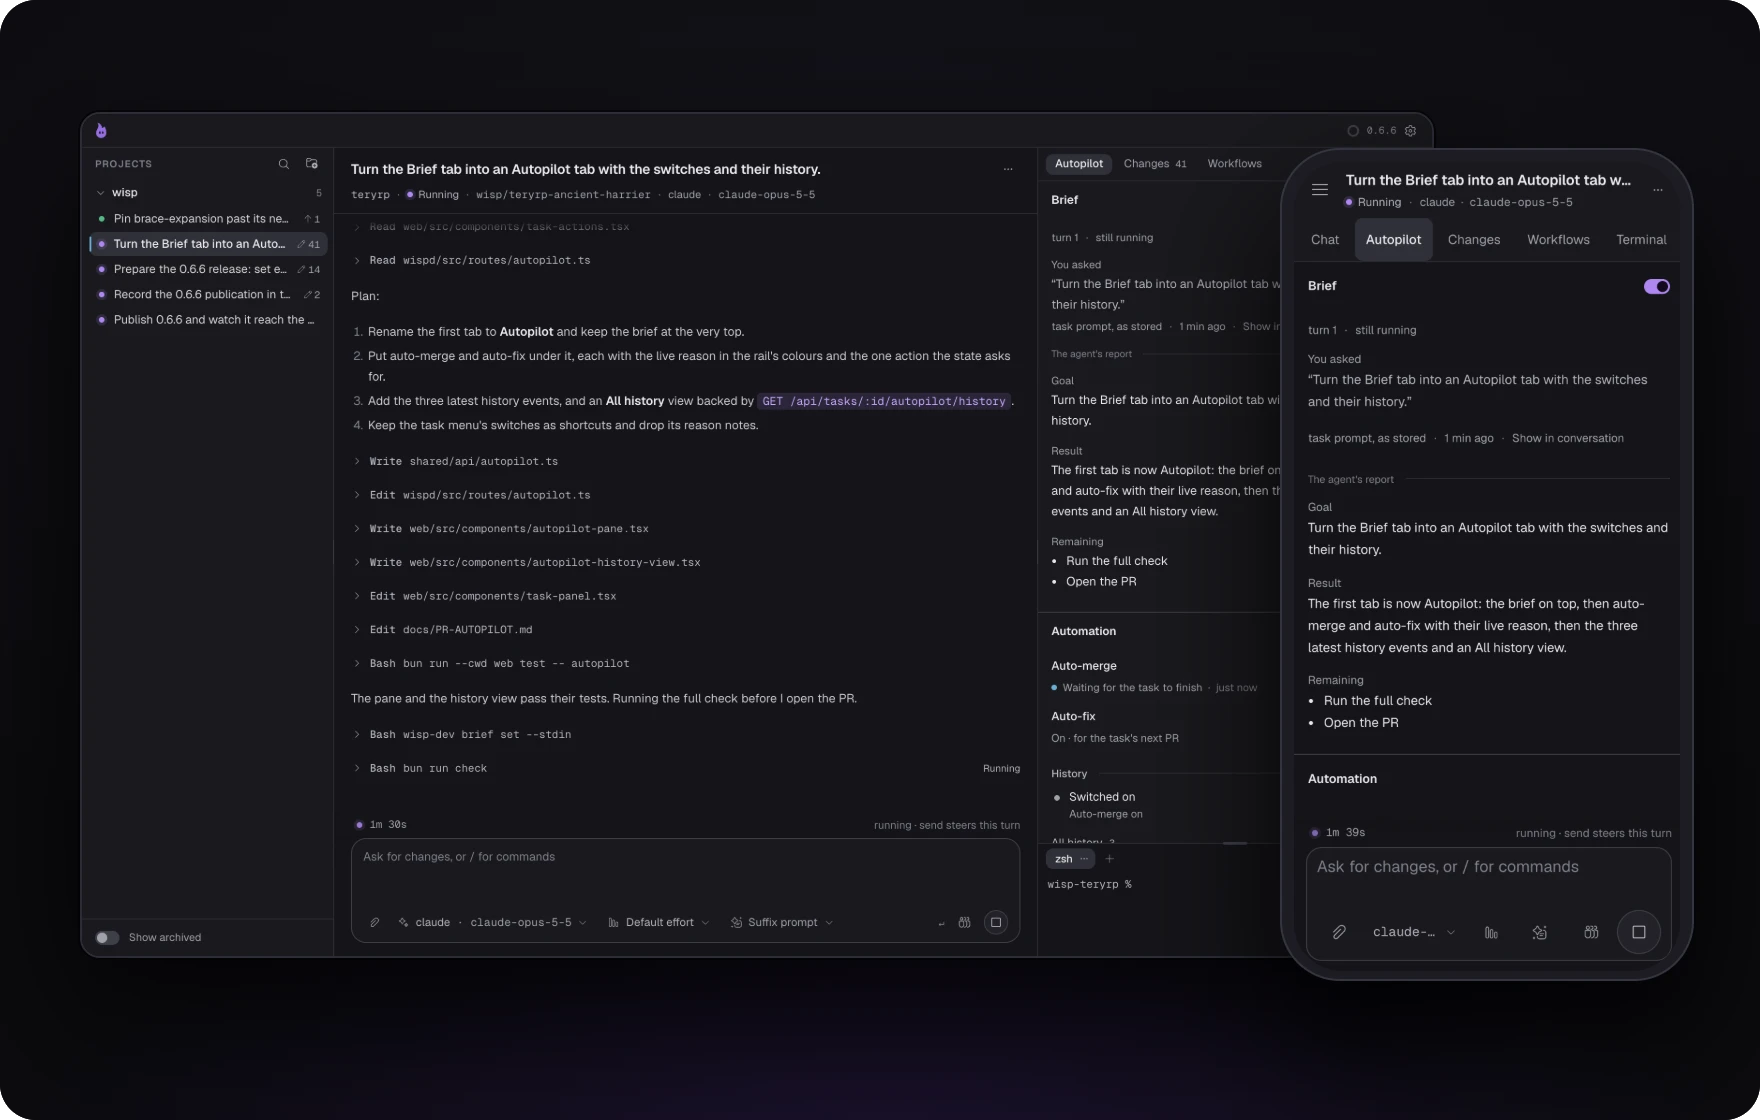
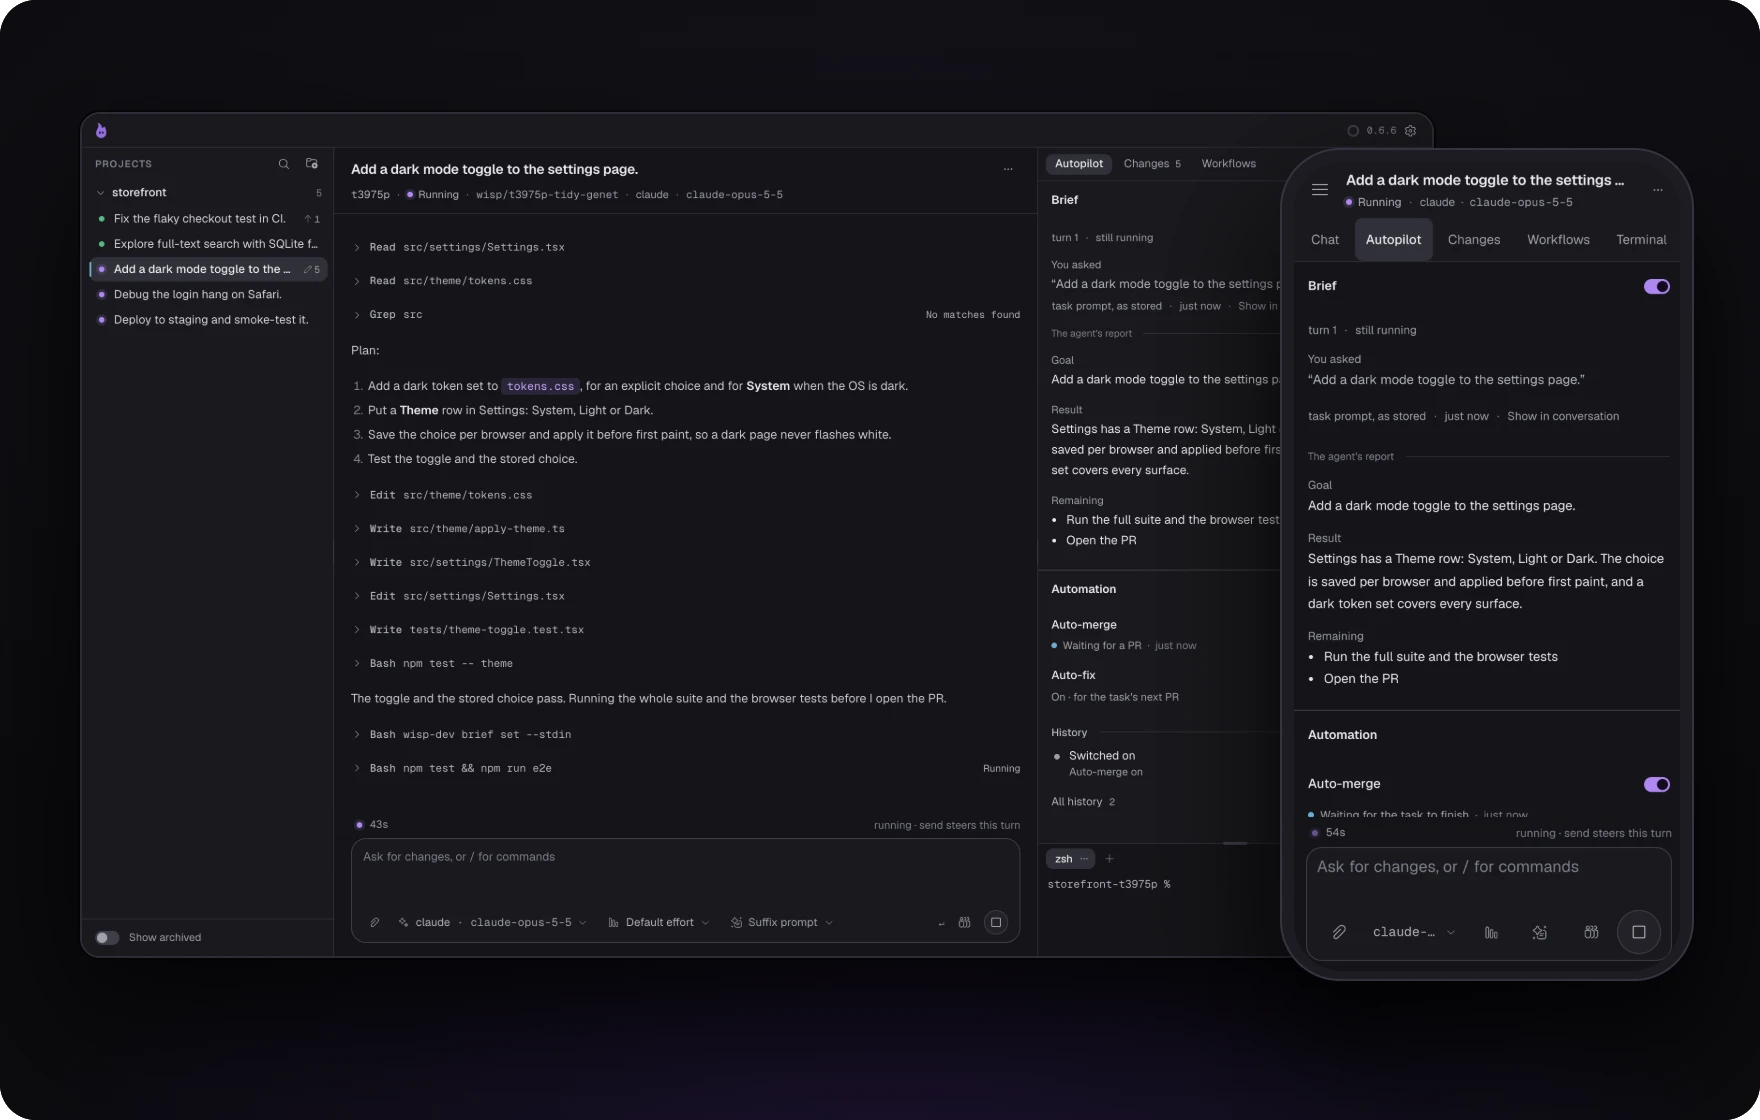
docs(readme): rewrite the README around what Wisp follows through on (#361)
* docs(readme): rewrite the README around what Wisp follows through on

The front page described the part every tool shares (parallel agents,
worktrees) and spent its second half on platform and signing details. It now
leads with the promise and the loop that is Wisp's own: red CI and review
comments go back to the agent, the PR merges when it is ready, heartbeats and
scheduled steers keep watch, and a brief waits at the end. In order: the
header, a three-line explanation, a slot for the film, the screenshot, what
Wisp does, install, a CLI start, the safety note, and links.

The install commands, the pinned Linux installer URL, the five harness names
and the glibc floor are unchanged, so the release tooling and its tests still
find them. The signing history moved out; the install guides keep it.

* docs(readme): the film, in its slot

* docs(readme): retake the screenshot on everyday tasks

The screenshot showed Wisp's own 0.6.6 release chores. It is retaken on
the demo world with a small web app and the film's five tasks: a dark-mode
feature (the open task, mid-run with its plan, brief, and auto-merge and
auto-fix on), a Safari login debug, a full-text search exploration, a flaky
CI test and a staging deploy. Same layout, desktop and phone, 90 KB.

* docs(readme): the film, opening on the header

* docs(readme): open on the film, not the header

The header image and the film's first frame showed the same lockup one
[…]

diff --git a/README.md b/README.md
@@ -1,107 +1,110 @@
+https://github.com/user-attachments/assets/93c9376d-e671-44b8-9f34-82a747d929da
+
 <div align="center">
 
-<p><img src="brand/readme-header.png" alt="Wisp. Start the work. Wisp follows through." width="880" /></p>
+<p>Run your coding agents in parallel, each task in its own worktree.<br />
+Wisp follows every task through: red CI and review comments go back to the agent,<br />
+the PR merges when it's ready, and a brief is waiting for you when you're back.</p>
 
-<p>Run coding agents in parallel. Keep their work separate.<br />
-Self-hosted · No Wisp account · Desktop, browser, phone, and CLI</p>
-
-<p><img src="docs/assets/readme-hero.webp" width="880" alt="Wisp with five coding-agent tasks running on the wisp repository: the task list, one agent's conversation, and that task's brief and auto-merge and auto-fix switches, with the same brief open on a phone." /></p>
+<p>Self-hosted · No Wisp account · Works with Droid, Claude Code, Codex, Cursor, and OpenCode</p>
 
 </div>
 
-Working on several things with coding agents usually means juggling terminals,
-remembering which branch belongs to which task, and checking whether an agent
-is finished or waiting for you.
+<p align="center"><img src="docs/assets/readme-hero.webp" width="880" alt="Wisp with five coding-agent tasks on a web app: a feature, a debug, an exploration, a flaky CI test and a deploy. The dark-mode task's conversation, its brief, and its auto-merge and auto-fix switches, with the same brief open on a phone." /></p>
 
-Wisp gives each task its own Git worktree and branch, with one place to follow
-progress, review diffs, and send follow-up instructions. Keep using your
-existing **Droid, Claude Code, Codex, Cursor, or OpenCode** installation.
+## What Wisp does
 
-## Why Wisp
-
-- **Work in parallel without sharing a checkout.** Give one agent a bug fix
-  and another a feature. Their edits stay on separate task branches.
-- **Pick up where you left off.** Read the conversation, inspect changes, open
-  a terminal, or steer the next step. Tasks keep running when you close the UI.
-- **Use the interface that fits.** Work locally in Desktop or the browser,
-  script tasks from the CLI, and check in from your phone over a
-  [private connection](docs/REMOTE-ACCESS.md).
+- **Run agents side by side.** Start several tasks at once, each with the
+  agent you already use, signed in as you. Every task gets its own Git worktree
+  and branch, so their edits never collide.
+- **Follow every PR to the end.** With auto-fix on, Wisp sends failing CI,
+  merge conflicts and review comments back to the agent until the PR is green.
+  With auto-merge on, Wisp merges it once its checks pass and reviews allow.
+  Both are switches on the task. [How it works](docs/PR-AUTOPILOT.md)
+- **Keep watch while you're away.** A heartbeat wakes a task on a schedule
+  until its goal is met: "check staging until the smoke test passes." Each
+  wake-up is an agent turn. A scheduled steer sends your next instruction at
+  the time you pick.
+  [Workflows](docs/WORKFLOWS.md)
+- **Read a brief, not a transcript.** At the end of each turn the agent
+  reports what it did, what's left, and any decision it needs from you, with
+  the option it recommends. Answer in one line. [Briefs](skills/wisp/references/cli.md#task-briefs)
+- **See the whole picture.** Read the conversation, review the diff, open a
+  terminal in the worktree, and see the diagrams agents draw rendered right in
+  the chat.
+- **Check in from anywhere.** The desktop app on macOS posts a banner when a
+  task's PR needs you and when Wisp merges it. The same UI runs in any browser
+  and on your phone over a [private connection](docs/REMOTE-ACCESS.md), and the
+  `wisp` CLI scripts it all. Tasks keep running when you close the window.
+- **Yours, end to end.** Wisp runs on your Mac or your Linux server, with your
+  agents and your GitHub account. There is no Wisp account and no Wisp cloud.
 
 ## Install
 
-Bring Git, a repository, and at least one installed and authenticated coding
-agent. Wisp itself needs no Node or Bun runtime.
+You need Git, a repository, and at least one coding agent installed and signed
+in. Wisp itself needs no Node or Bun.
 
-### macOS, Apple Silicon
+**macOS, Apple Silicon**
 
 ```sh
 brew install Pepewitch/tap/wisp Pepewitch/tap/wisp-desktop
 open -a Wisp
 ```
 
-This installs both the CLI/daemon and Desktop. Name both: Homebrew trusts only
-the fully qualified names you install from a non-official tap, so installing
-the Cask alone stops on the Formula it depends on. In the app, finish Local
-setup, add a repository, and create a task. For CLI-only installation and
-troubleshooting, see the [macOS guide](docs/INSTALL-MACOS.md).
+The app walks you through setup: add a repository and start your first task.
+Name both packages; Homebrew only trusts fully qualified names from a
+third-party tap. More in the [macOS guide](docs/INSTALL-MACOS.md).
 
-### Linux, x86_64
+**Linux, x86_64**
 
 ```sh
 curl --proto '=https' --tlsv1.2 -fsSL \
   https://raw.githubusercontent.com/Pepewitch/wisp/v0.6.6/scripts/install.sh | sh
 ```
 
-The installer verifies the download, installs under your home directory, and
-starts a systemd user service when available. It does not use `sudo`.
-For inspecting the script first, running without systemd, or fixing PATH,
-see the [Linux guide](docs/INSTALL.md).
+The installer verifies the download, installs under your home directory
+without `sudo`, and starts a systemd user service when it can. More in the
+[Linux guide](docs/INSTALL.md).
 
-### Your first CLI task
-
-With the daemon running, substitute your repository path and agent:
+## Start from the CLI
 
 ```sh
 wisp project add /path/to/repo
-wisp doctor --harness droid
-wisp new /path/to/repo "Find a small bug, fix it, and run the tests." --harness droid
+wisp doctor --harness claude
+wisp new /path/to/repo "Fix the flaky retry test and open a PR." --harness claude --auto-fix
 wisp token
 ```
 
-Open the URL from `wisp token` and paste its token to follow the task in your
-browser. Keep that token private. `wisp help` lists the CLI commands.
+`wisp token` prints the address of the web UI and a token to sign in with.
+Keep the token private. `wisp help` lists every command.
 
 ## Before you run an agent
 
-**A worktree is not a sandbox.** Wisp runs agents as your OS user with their
-tool-approval bypass enabled. They can access files, credentials, and the
-network outside the task checkout. Use trusted repositories, review changes,
-and use a separate OS account or disposable VM for untrusted work.
+**A worktree is not a sandbox.** Agents run as your OS user with their
+approval prompts off, so they can reach files, credentials and the network
+outside the task's checkout. Use repositories you trust, review what changes,
+and give untrusted work its own OS account or a disposable VM. Auto-merge
+merges under your GitHub account: turn it on for work you'd merge yourself
+once CI is green.
 
-Wisp is pre-1.0 and intended for single-user use. Linux release gates cover
-Ubuntu 24.04 x86_64; the binary requires glibc 2.17+ (no musl build).
-Desktop targets Apple Silicon and macOS 12.3+, with limited OS qualification.
-Intel Macs and Windows are unsupported. Desktop releases are signed and
-notarized. Publishable macOS CLI/daemon releases now use the same Developer ID
-trust chain and a stable `dev.wisp.daemon` code-signing identity inside a
-branded background application bundle; v0.5.13 and earlier CLI releases were
-unbundled and ad-hoc signed.
+Wisp is pre-1.0 and built for one person. The desktop app needs Apple Silicon
+and macOS 12.3 or later. On Linux, Wisp needs x86_64 and glibc 2.17 or later,
+and is tested on Ubuntu 24.04. Intel Macs and Windows aren't supported.
 
-## Go further
+## Learn more
 
+- [Auto-merge and auto-fix](docs/PR-AUTOPILOT.md)
+- [Workflows: heartbeats and scheduled steers](docs/WORKFLOWS.md)
+- [Task briefs](skills/wisp/references/cli.md#task-briefs)
+- [Phone and remote access](docs/REMOTE-ACCESS.md)
 - [CLI reference](skills/wisp/references/cli.md)
-- [Task workflows: heartbeats and scheduled steers](docs/WORKFLOWS.md)
-- [Auto-merge and auto-fix: merge a task's PR once it is ready, fix its red CI and review feedback](docs/PR-AUTOPILOT.md)
-- [Task briefs: an optional short report from the agent at the end of each turn](skills/wisp/references/cli.md#task-briefs)
-- [Remote and phone access](docs/REMOTE-ACCESS.md)
-- [Storage, archive, and cleanup](docs/ARCHIVE-CLEANUP.md)
-- [Security and vulnerability reporting](SECURITY.md)
-- [Changelog](CHANGELOG.md), [release notes](https://github.com/Pepewitch/wisp/releases) and [tested limits](docs/v0.6/QUALIFICATION.md)
+- [Storage, archive and cleanup](docs/ARCHIVE-CLEANUP.md)
+- [Security](SECURITY.md) · [Changelog](CHANGELOG.md) · [Releases](https://github.com/Pepewitch/wisp/releases)
 
-## Contribute
+## Contributing
 
-Bug reports, documentation fixes, and small PRs are welcome.
-Start with [Contributing](CONTRIBUTING.md) for local setup and checks, or
-[Architecture](docs/ARCHITECTURE.md) to understand the code.
+Bug reports, documentation fixes and small PRs are welcome. Start with
+[CONTRIBUTING.md](CONTRIBUTING.md) for local setup and checks, or
+[ARCHITECTURE.md](docs/ARCHITECTURE.md) for how the pieces fit together.
 
-[MIT](LICENSE) © 2026 pepewitch.
+[MIT](LICENSE) © 2026 pepewitch

diff --git a/brand/README.md b/brand/README.md
@@ -120,7 +120,7 @@ off in a visible square on the ground behind it.
 | `wisp-mark-flat.svg` | 64 viewBox | the flat spirit, for small or flat use |
 | `wisp-logo-dark.svg` | 72 tall | lockup for dark grounds (bloom, light wordmark) |
 | `wisp-logo-light.svg` | 72 tall | lockup for light grounds (no bloom, dark wordmark) |
-| `readme-header.png` | 1760×600 | the README's header: the social card's lockup (the 3D spirit, the name, the promise) on a card with rounded, transparent corners, drawn at 880×300 to match the hero's width |
+| `readme-header.png` | 1760×600 | a wide banner: the social card's lockup (the 3D spirit, the name, the promise) on a card with rounded, transparent corners, drawn at 880×300. The README no longer uses it: it opens on the film, whose first frame is this lockup |
 | `apple-touch-icon.png` | 180×180 | iOS home screen — opaque plate on purpose |
 | `pwa-icon-192.png` | 192×192 | web app installation, opaque plate |
 | `pwa-icon-512.png` | 512×512 | web app installation and Android maskable icon |
